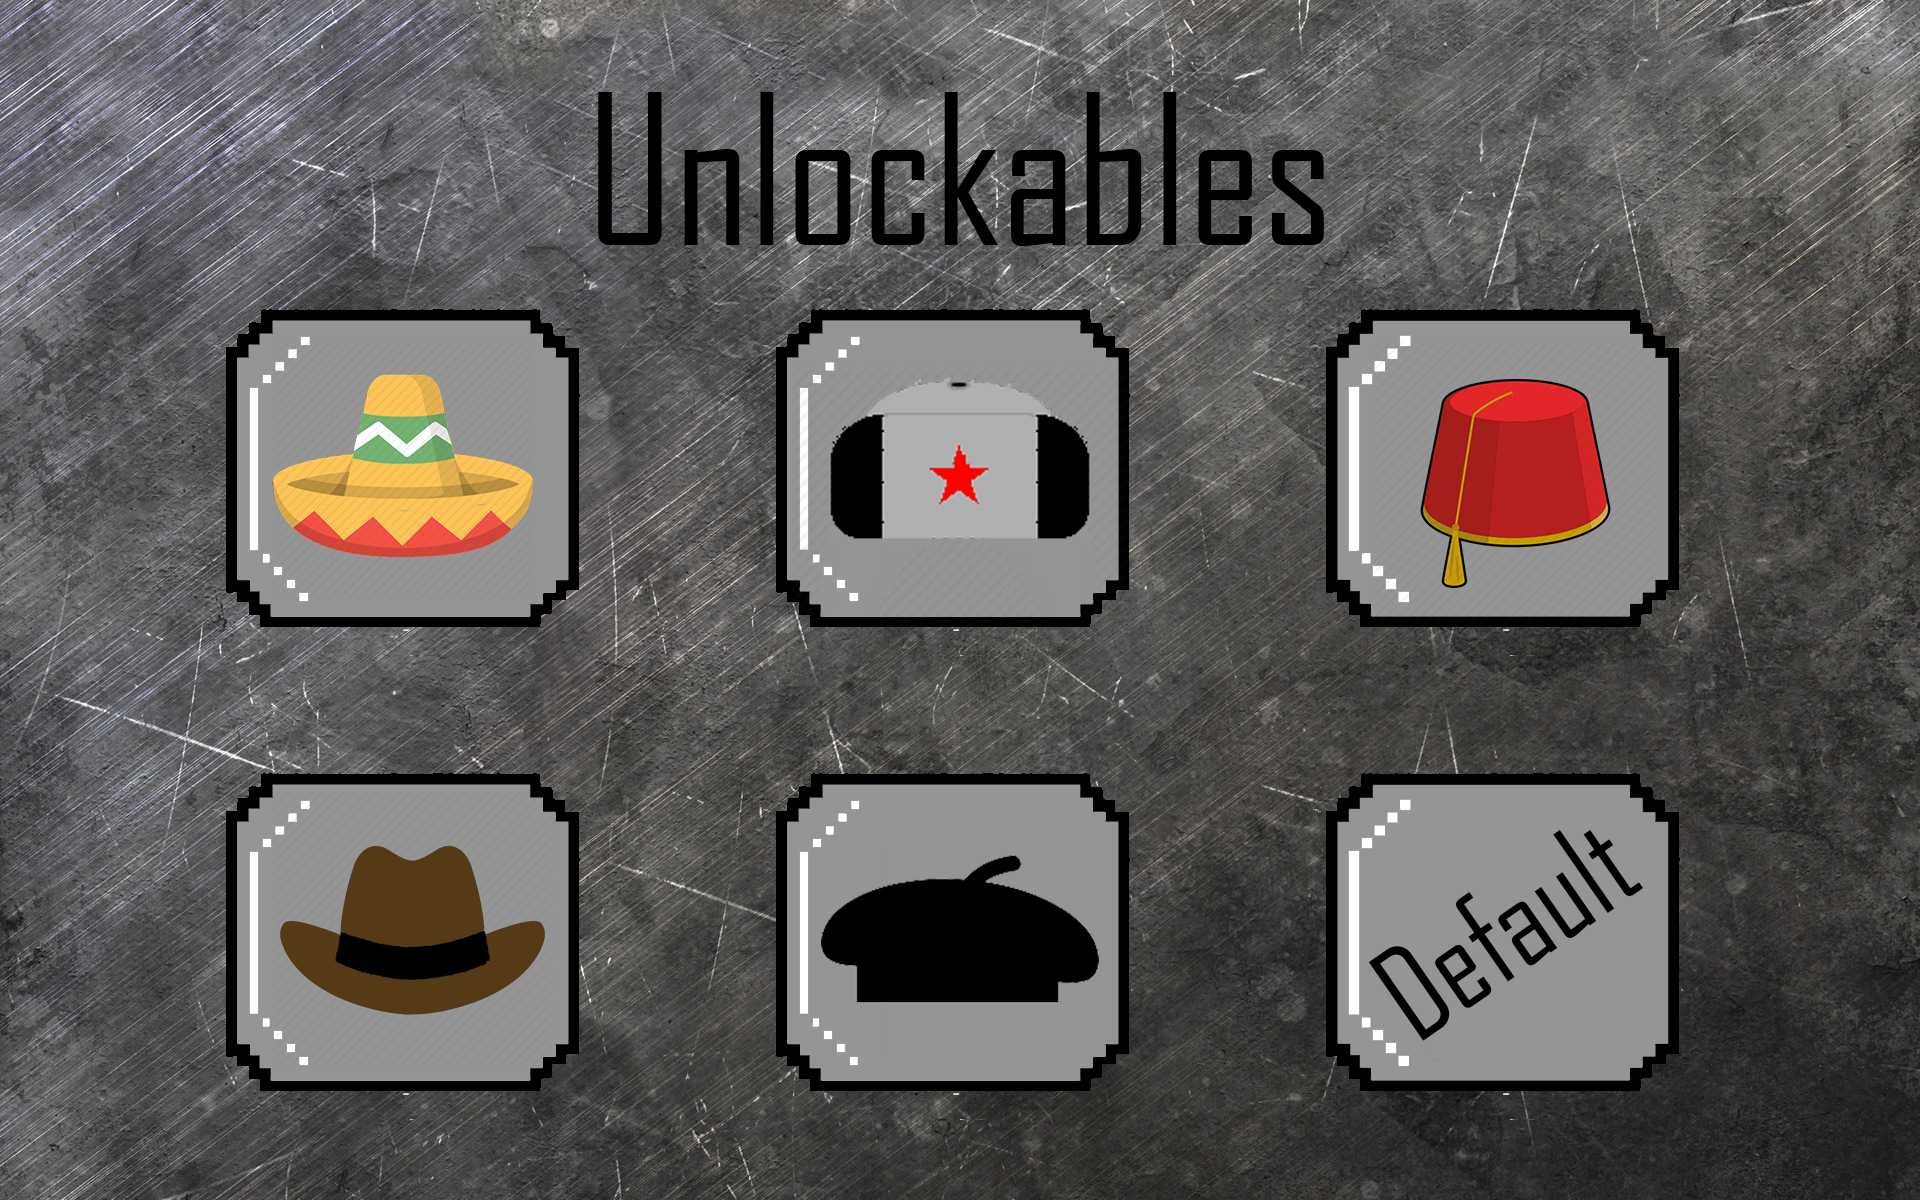
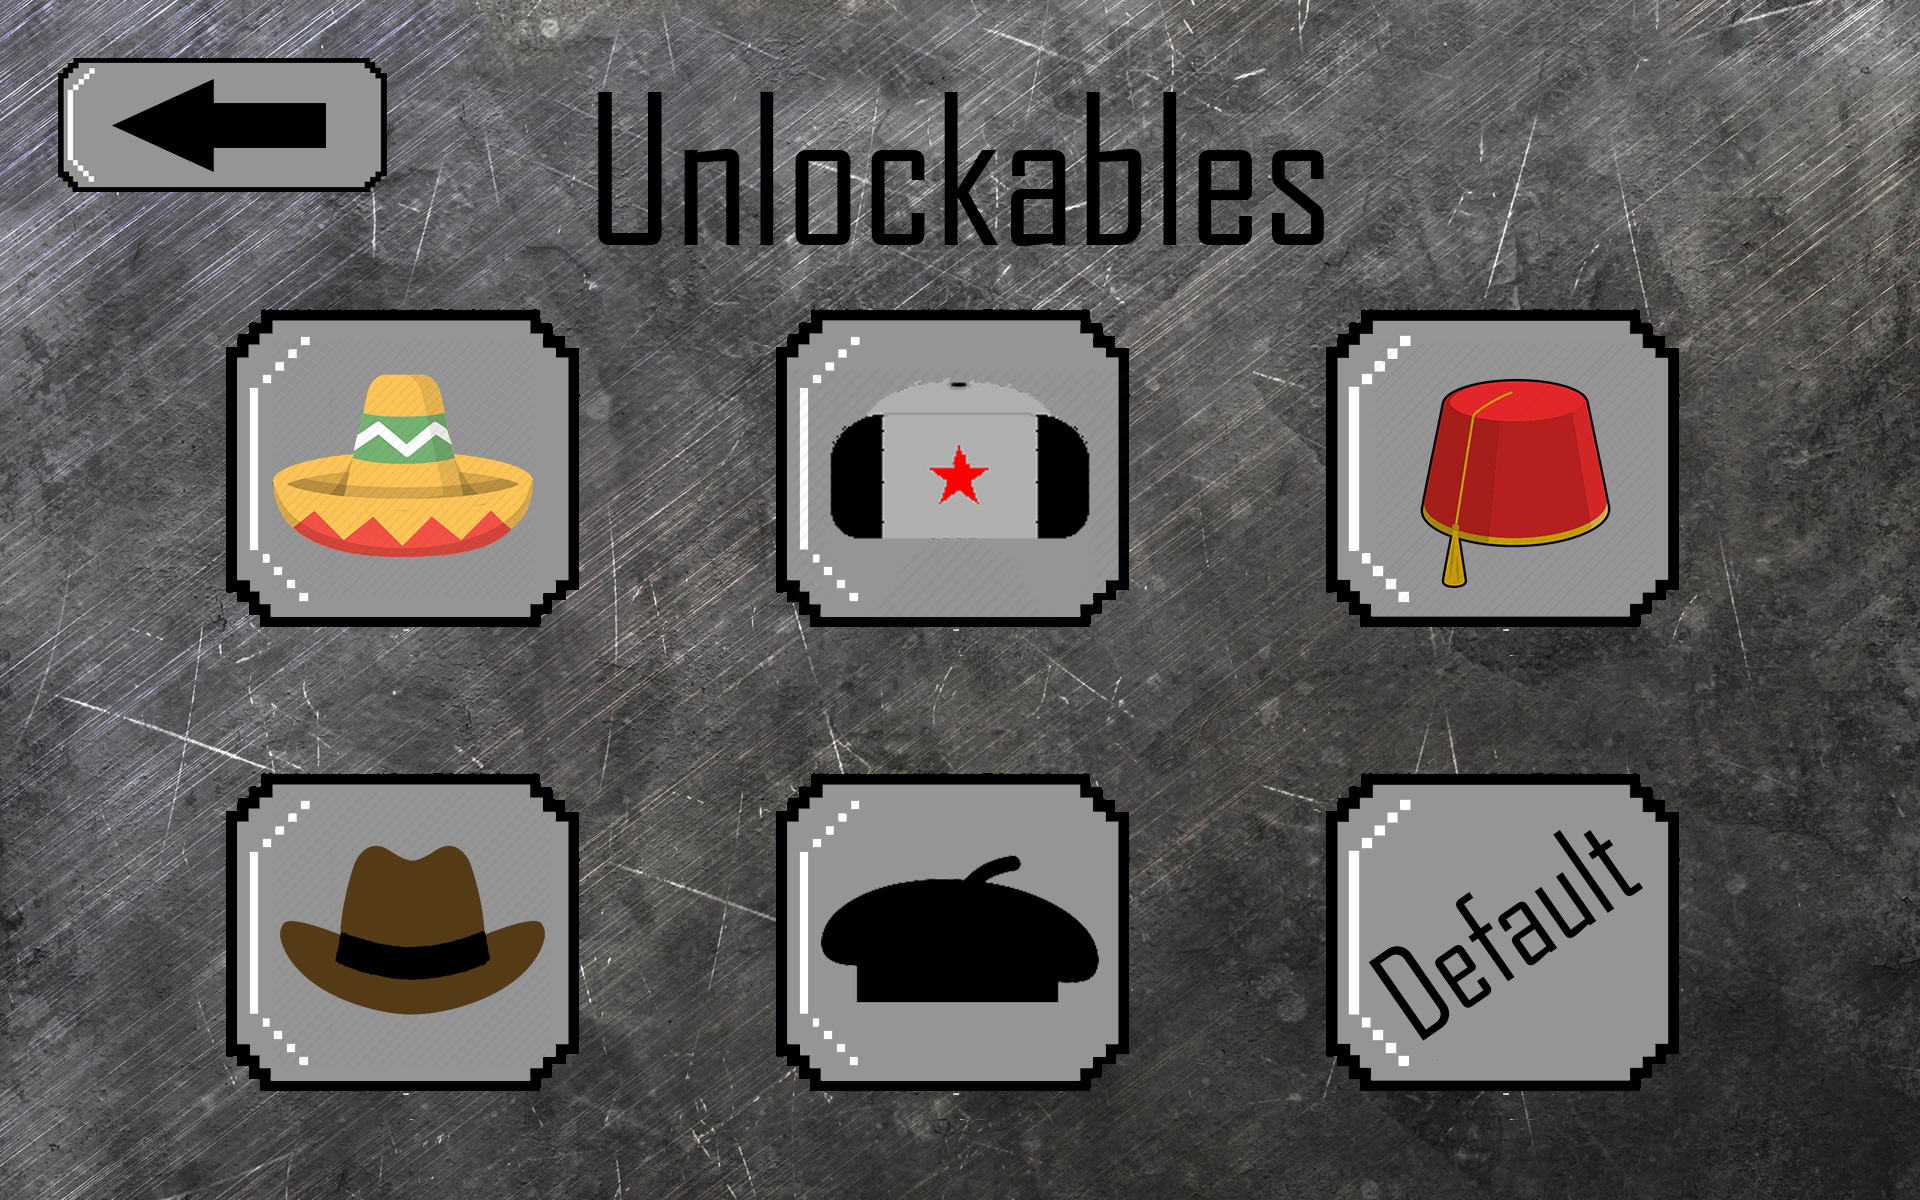
Fixed the return to pause button on Unlockables

Changed region(s): [[0.0312, 0.0308, 0.2188, 0.185]]

diff --git a/Purpose/Game1.cs b/Purpose/Game1.cs
@@ -301,7 +301,7 @@ namespace Purpose
             upgradesButton = new GameObject(textureManager.ButtonFrame, new Rectangle(500, 512, 349, 160));
             returnToMenuButton = new GameObject(textureManager.ButtonFrame, new Rectangle(500, 343, 349, 160));
             returnToMainButton = new GameObject(textureManager.ButtonFrame, new Rectangle(35, 35, 243, 108));
-            unlockablesReturnToPauseButton = new GameObject(textureManager.ButtonFrame, new Rectangle(35, 35, 349, 160));
+            unlockablesReturnToPauseButton = new GameObject(textureManager.ButtonFrame, new Rectangle(35, 34, 242, 109));
 
             groundPoundTip = new GameObject(textureManager.GroundPoundTip, new Rectangle(0, 0, 250, 250));
             damageUpTip = new GameObject(textureManager.DamageUpTip, new Rectangle(0, 0, 250, 250));
